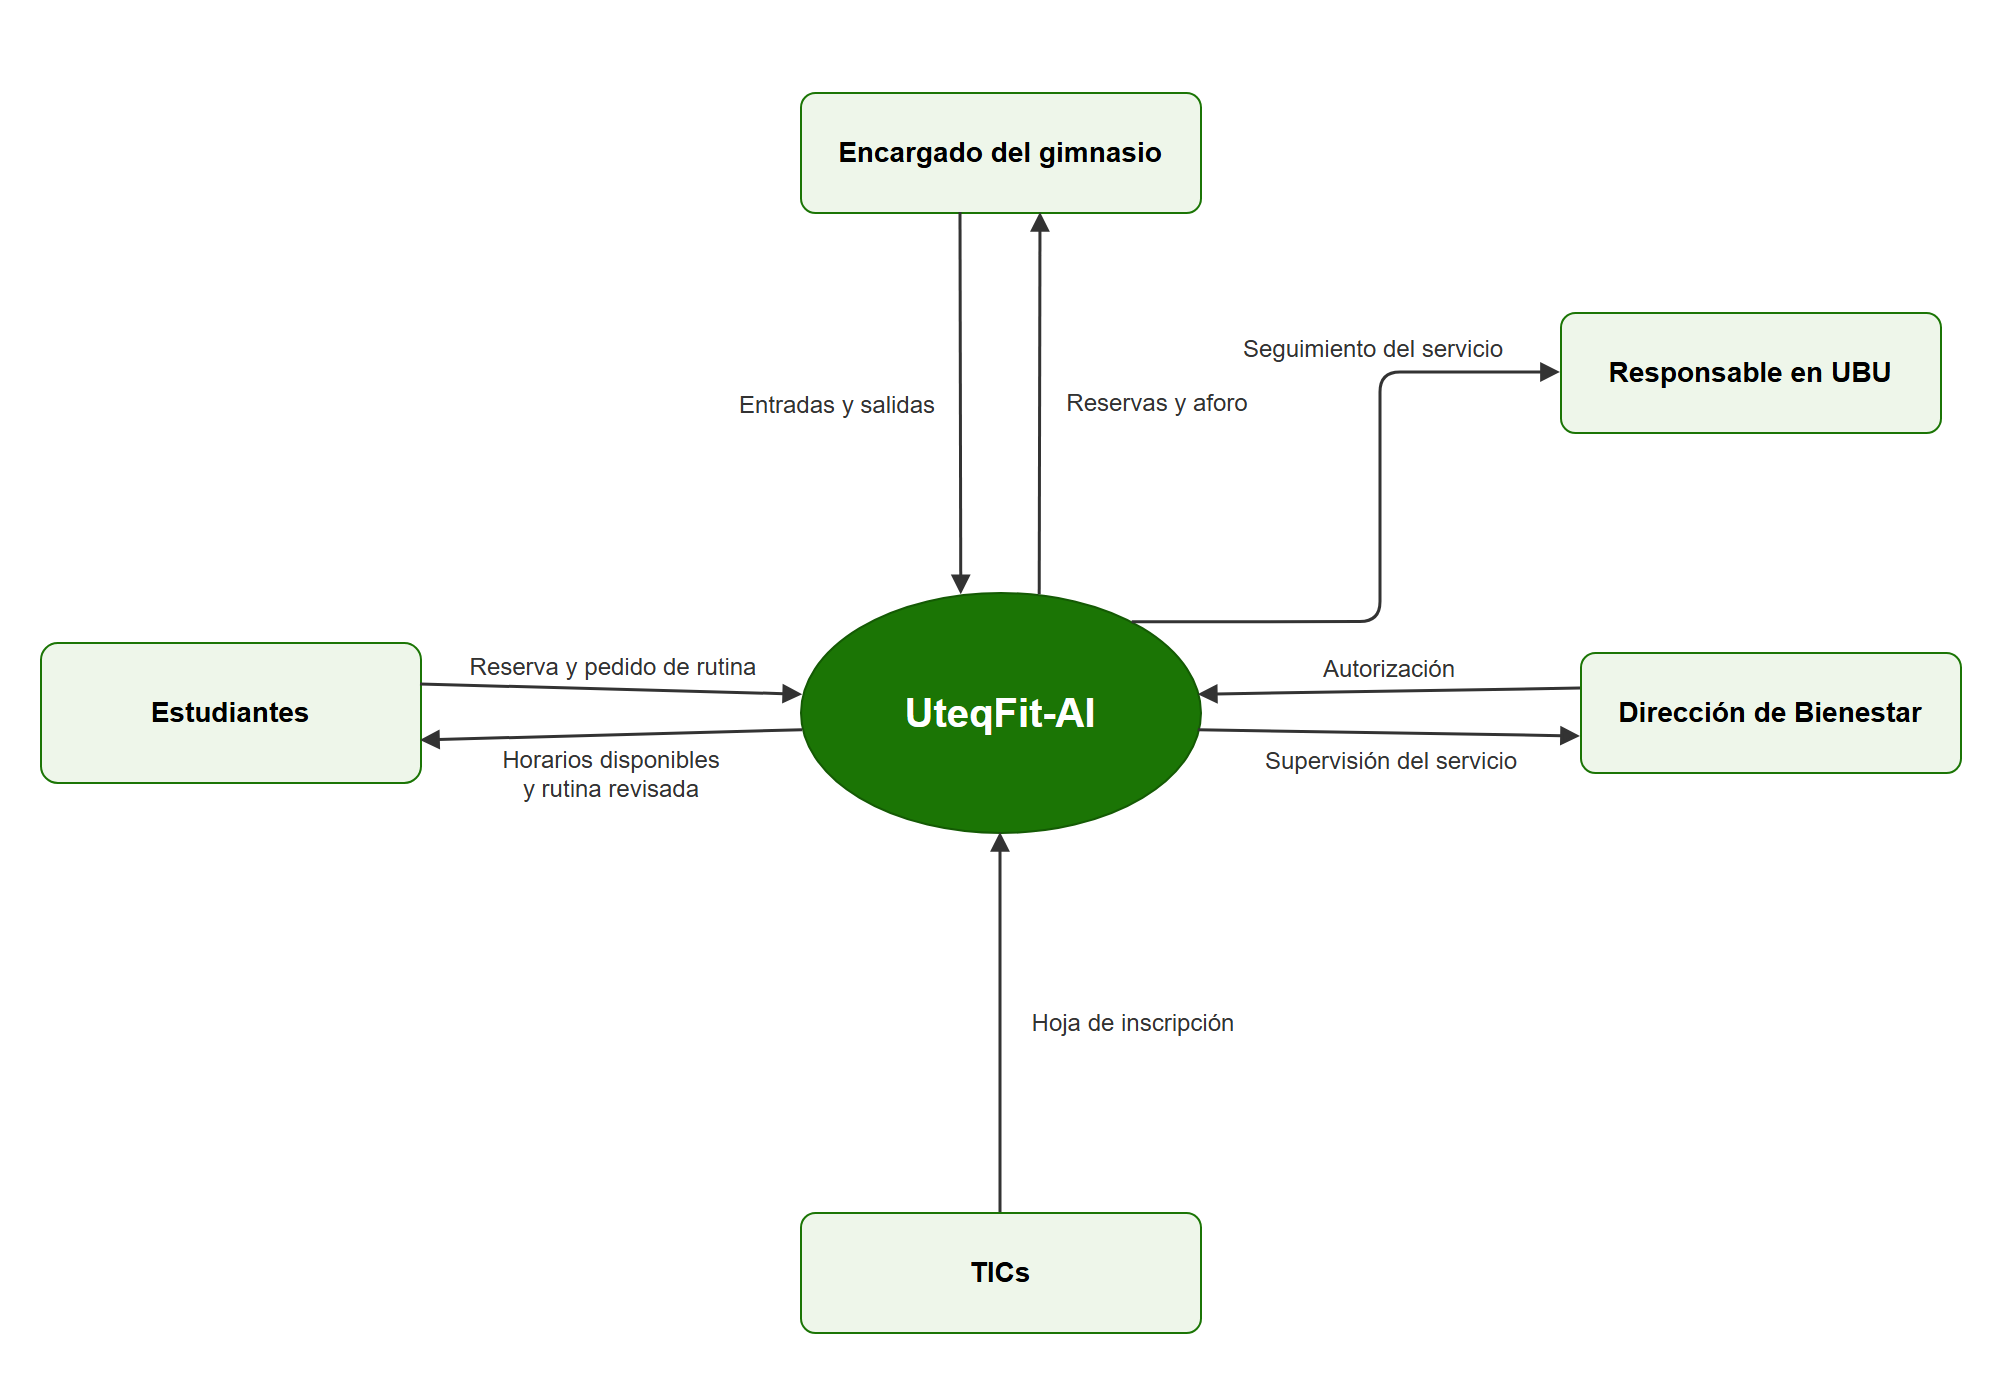
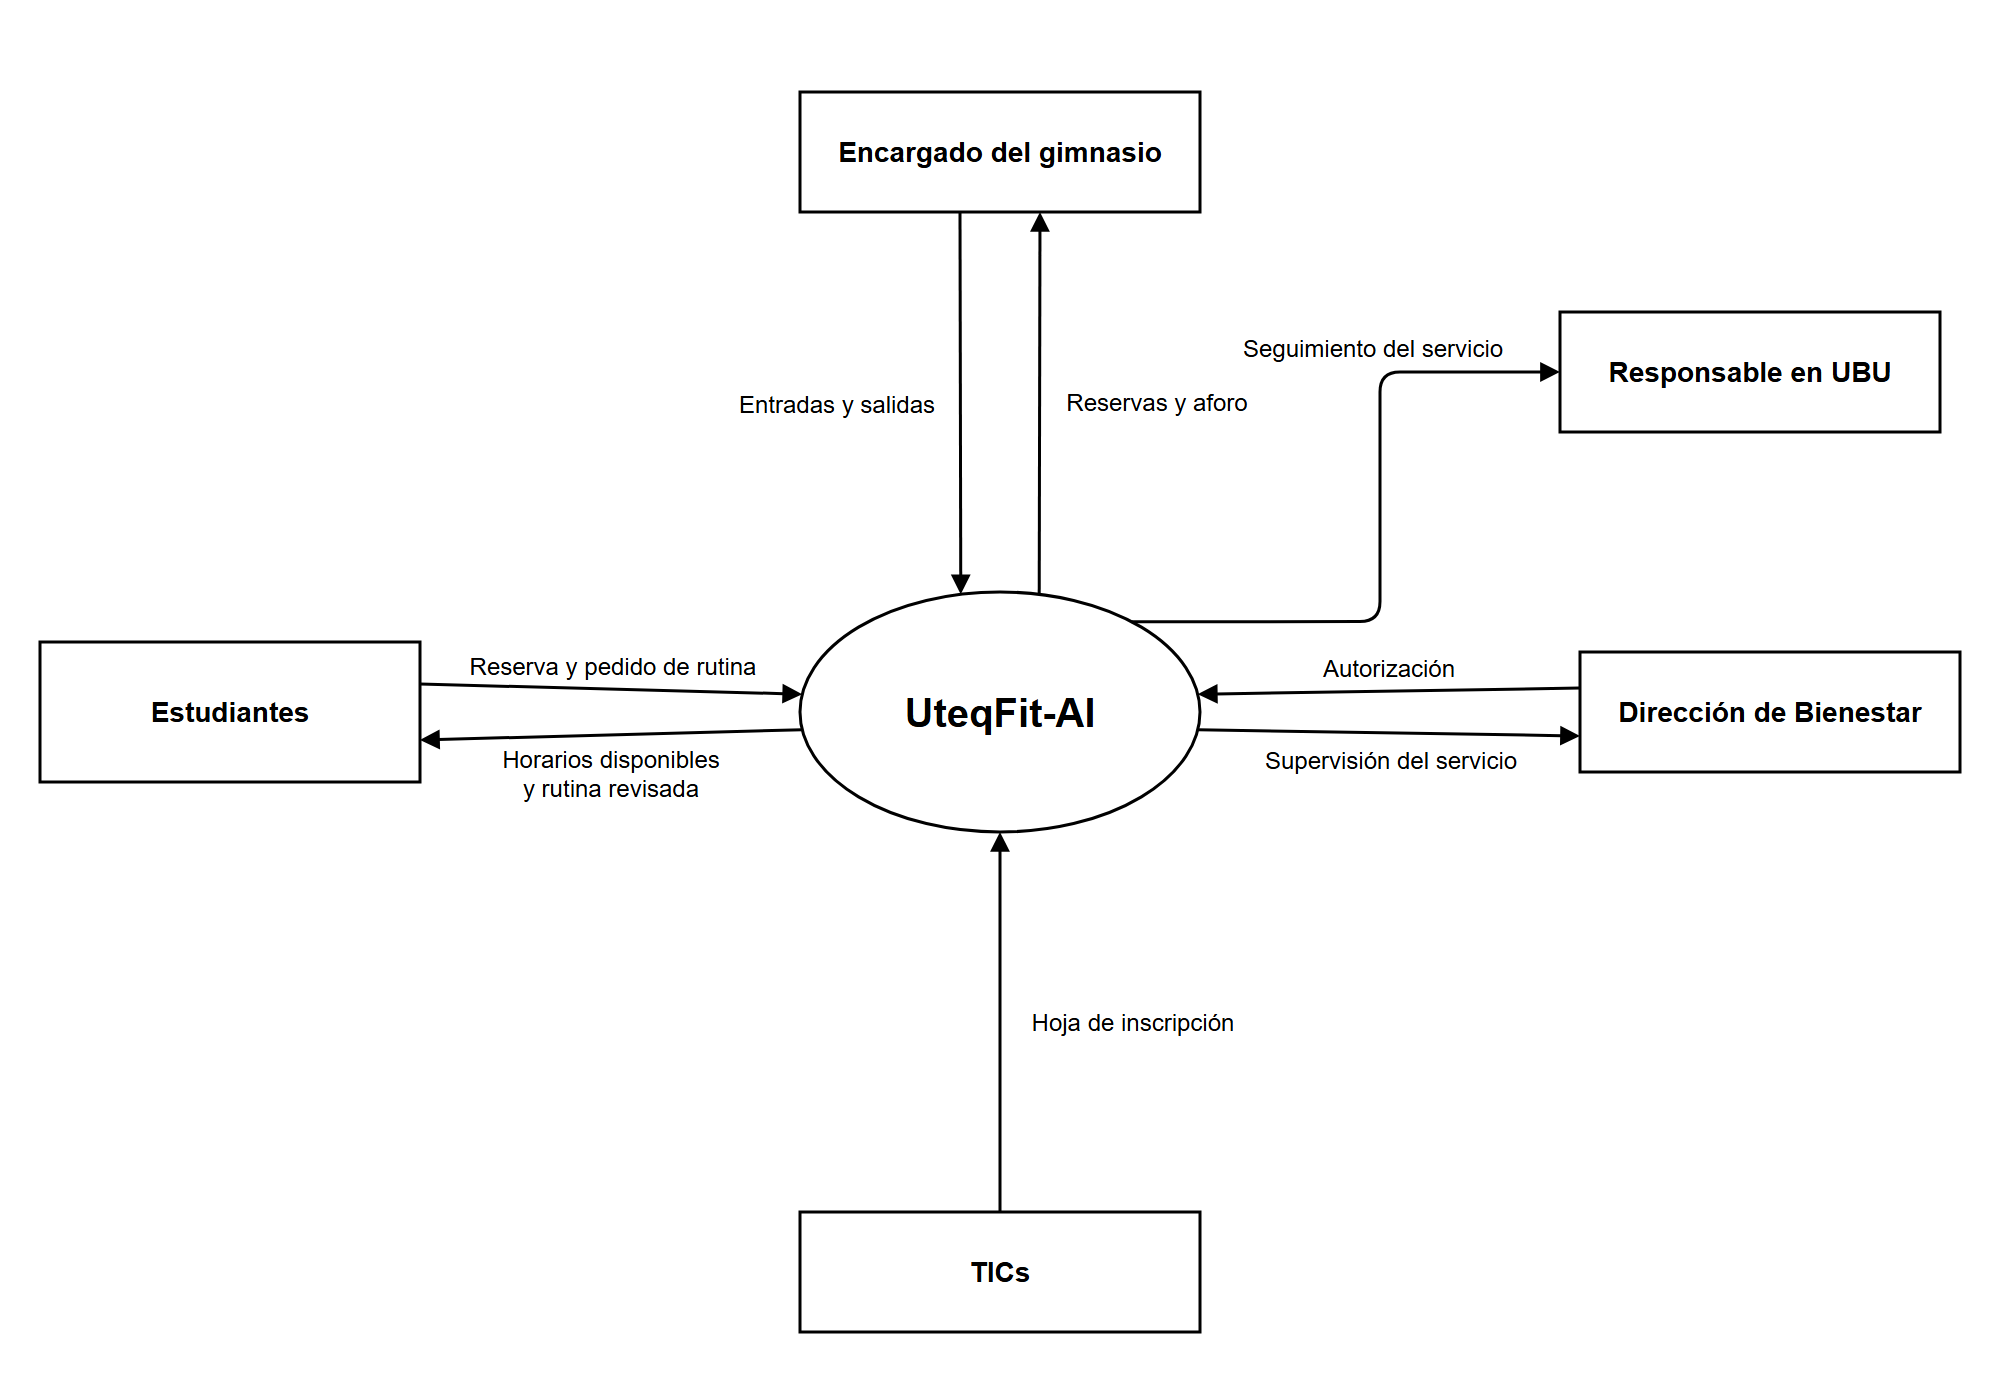
Ajustes al contexto

diff --git a/PFC/E1/secciones/04_contexto.tex b/PFC/E1/secciones/04_contexto.tex
@@ -8,3 +8,27 @@ Los estudiantes mandan su reserva y su pedido de rutina, y reciben los horarios 
   \caption{Diagrama de contexto de UteqFit-AI}
   \label{fig:diagrama-contexto}
 \end{figure}
+
+\subsection{Perspectivas del contexto}
+
+En la Tabla~\ref{tab:perspectivas} se pone un hallazgo por cada una de las ocho perspectivas de contexto de Pohl~\cite{pohl2025}, sacado de lo que ya se observó en el gimnasio.
+
+\begingroup
+\small
+\renewcommand{\arraystretch}{1.2}
+\begin{longtable}{|p{2.6cm}|p{8.6cm}|p{3.2cm}|}
+\caption{Hallazgos por perspectiva}\label{tab:perspectivas}\\\hline
+\textbf{Perspectiva} & \textbf{Hallazgo} & \textbf{De dónde sale} \\ \hline
+\endfirsthead
+\hline \textbf{Perspectiva} & \textbf{Hallazgo} & \textbf{De dónde sale} \\ \hline
+\endhead
+Uso & Para entrar se presenta la cédula o el carné y se registra a mano en recepción. Algunos estudiantes se quedan después de su hora. & Afiche y observación O3 \\ \hline
+Sujeto o dominio & El cupo máximo es de 26 personas por hora, y el gimnasio atiende de 08h00 a 13h00 y de 15h00 a 18h00. & Observación O2 y afiche \\ \hline
+Sistema de TI & Hoy no hay ningún sistema: TICs entrega la hoja de inscripción y todo se hace a mano. & Observación O1 \\ \hline
+Desarrollo & Es un proyecto académico que llega hasta los requisitos y una prueba piloto antes de la semana 17. & Secciones 2 y 7 \\ \hline
+Negocio & El gimnasio es gratuito y depende de Bienestar Universitario, así que el sistema no maneja cobros. & Sección 1 \\ \hline
+Innovación & Hubo entre 4 y 5 pedidos de ayuda con rutinas y no hay entrenador. Una rutina sugerida tendría que aprobarla el responsable que designe UBU. & Observación O5 y riesgo R-04 \\ \hline
+Sociedad & El sistema guarda datos personales de los estudiantes, por eso se aplica la LOPDP y no se guardan datos de salud. & Secciones 2 y 6 \\ \hline
+Técnica & Todavía no se sabe con qué equipos y red cuenta el gimnasio, y la conexión con los servicios de TICs está por definir. & Sección 2 (zona gris) \\ \hline
+\end{longtable}
+\endgroup
